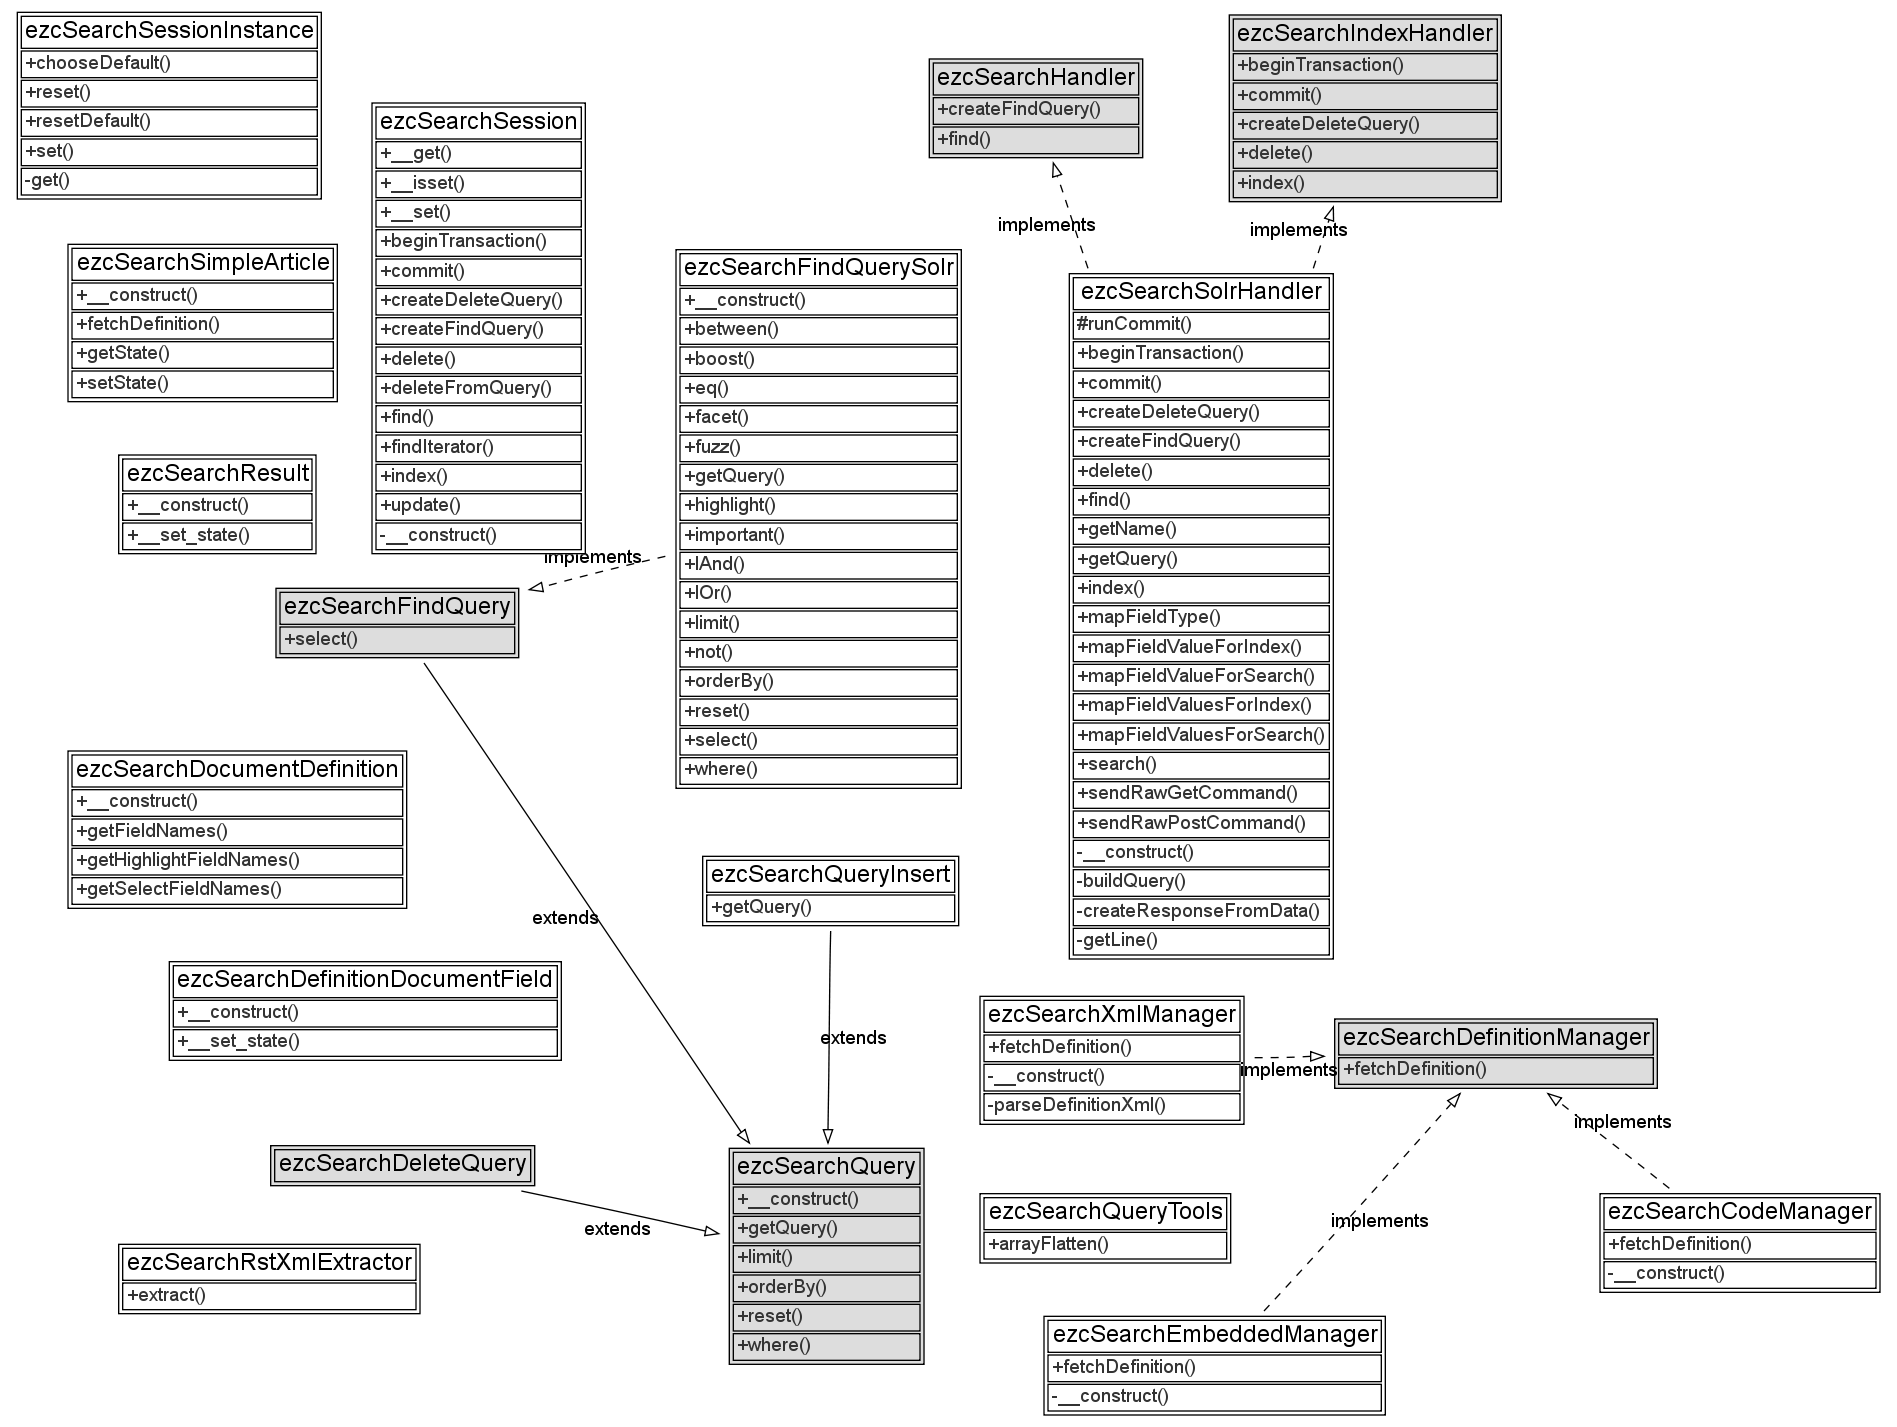
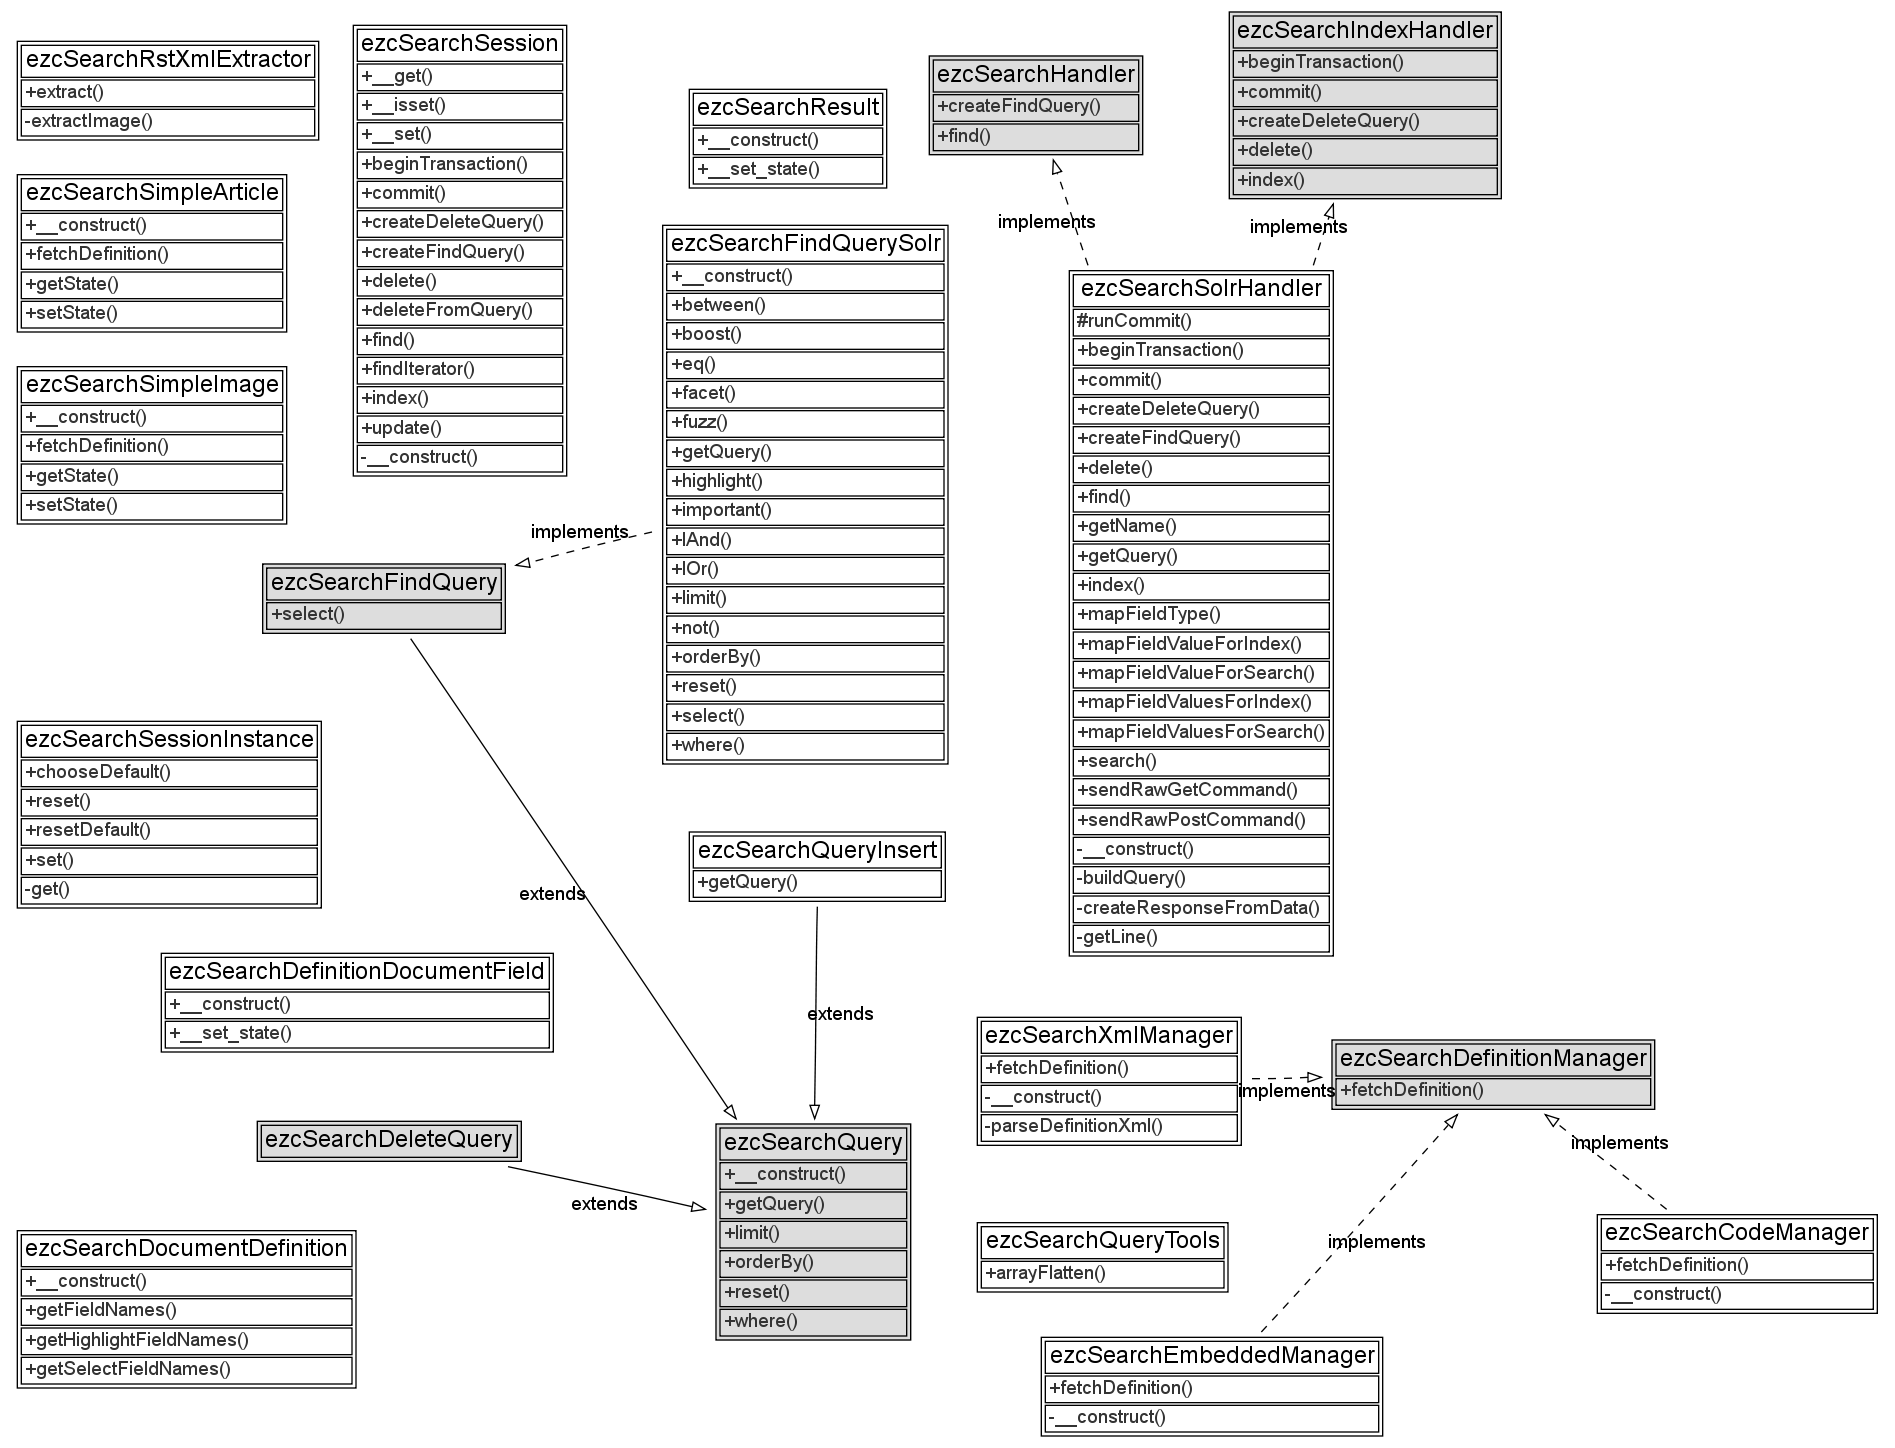
- Added support for extracing images, still very much in development.

diff --git a/src/extractors/rstxml.php b/src/extractors/rstxml.php
@@ -23,7 +23,7 @@ class ezcSearchRstXmlExtractor /* implements ezcSearchExtractor */
      * @param string $url
      * @return array(ezcSearchDocument)
      */
-    static public function extract( $fileName, $url )
+    static public function extract( $fileName, $type, $url, $imagePath = null, $imageUrlPath = null )
     {
         $published = filemtime( $fileName );
 
@@ -34,16 +34,73 @@ class ezcSearchRstXmlExtractor /* implements ezcSearchExtractor */
 
         $xpath = new DOMXPath($dom);
         $tocElem = $xpath->evaluate("//h1[@class='title']", $tbody )->item(0);
-        $title = $tocElem->nodeValue;
+        $title = $tocElem ? $tocElem->nodeValue : 'no title';
 
-        $tbody = $dom->getElementsByTagName('p');
+        $docs = array();
+        $body = $urls = array();
+        $currentUrl = $url;
+        $lastUrl = $url;
+        $currentBody = '';
+
+        // child::*[self::p or self::h1]
+        $xpath = new DOMXPath($dom);
+//        $tbody = $xpath->evaluate("descendant::*[self::p or self::h1 or self::dl or self::img or self::a]", $tbody );
+        $tbody = $xpath->evaluate("//p|//h1|//dl|//img|//a", $tbody );
+//        $tbody = $dom->getElementsByTagName('p');
         $body = '';
         foreach( $tbody as $item )
         {
-            $body .= strip_tags( $dom->saveXml( $item ) ) . "\n\n";
+            switch ( $item->tagName )
+            {
+                case 'a':
+                        $name = $item->getAttribute( 'name' );
+//                        echo "[a] ", $name, "\n";
+                        if ( strlen( $name ) )
+                        {
+                            $currentUrl = $url . '#'. $name;
+                        }
+                    break;
+                case 'img':
+                        $alt = $item->getAttribute( 'alt' );
+                        $src = $item->getAttribute( 'src' );
+                        $location = $imagePath == null ?
+                            (dirname( $fileName ). '/'. $src) : 
+                            ($imagePath. '/'. preg_replace( '@(\.\./)+@', '', $src ) );
+                        $imgurl = $src[0] == '/' ?
+                            $src :
+                            ($imageUrlPath === null ?
+                                ($url . '/' . $src) :
+                                ($imageUrlPath. '/'. preg_replace( '@(\.\./)+@', '', $src ) ) );
+                        echo "  - $src => $imgurl\n";
+                        $docs[] = self::extractImage( $alt, $location, $imgurl );
+                    break;
+                case 'p':
+                case 'h1':
+                case 'dl':
+                        if ( $lastUrl !== $currentUrl )
+                        {
+                            $docs[] = new ezcSearchSimpleArticle( null, $title, $currentBody, $published, $lastUrl, $type );
+                            $currentBody = '';
+                            $lastUrl = $currentUrl;
+                        }
+                        $currentBody .= strip_tags( $dom->saveXml( $item ) ) . "\n\n";
+                    break;
+            }
+        }
+        if ( $currentBody != '' )
+        {
+            $docs[] = new ezcSearchSimpleArticle( null, $title, $currentBody, $published, $lastUrl, $type );
         }
 
-        return array( new ezcSearchSimpleArticle( null, $title, $body, $published, $url ) );
+//        $docs[] = new ezcSearchSimpleArticle( null, $title, $body, $published, $urls, $type );
+        return $docs;
+    }
+
+    private static function extractImage( $title, $filename, $url )
+    {
+        $info = getimagesize( $filename );
+
+        return new ezcSearchSimpleImage( null, $title, $url, $info[0], $info[1], $info['mime'], $url );
     }
 }
 ?>

diff --git a/src/extractors/helpers/image.php b/src/extractors/helpers/image.php
@@ -1,0 +1,54 @@
+<?php
+class ezcSearchSimpleImage /* implements ezcSearchEmbeddedDefinition */
+{
+    public $id;
+    public $title;
+    public $url;
+    public $width;
+    public $height;
+    public $mime;
+
+    function __construct( $id = null, $title = null, $url = null, $width = null, $height = null, $mime = null )
+    {
+        $this->id = $id;
+        $this->title = $title;
+        $this->url = $url;
+        $this->width = $width;
+        $this->height = $height;
+        $this->mime = $mime;
+    }
+
+    static public function fetchDefinition()
+    {
+        $n = new ezcSearchDocumentDefinition( 'ezcSearchSimpleImage' );
+        $n->idProperty = 'id';
+        $n->fields['id']        = new ezcSearchDefinitionDocumentField( 'id', ezcSearchDocumentDefinition::TEXT );
+        $n->fields['title']     = new ezcSearchDefinitionDocumentField( 'title', ezcSearchDocumentDefinition::TEXT, 2, true, false, true );
+        $n->fields['url']       = new ezcSearchDefinitionDocumentField( 'url', ezcSearchDocumentDefinition::STRING );
+        $n->fields['width']     = new ezcSearchDefinitionDocumentField( 'width', ezcSearchDocumentDefinition::INT );
+        $n->fields['height']    = new ezcSearchDefinitionDocumentField( 'height', ezcSearchDocumentDefinition::INT );
+        $n->fields['mime']      = new ezcSearchDefinitionDocumentField( 'mime', ezcSearchDocumentDefinition::STRING );
+
+        return $n;
+    }
+
+    function getState()
+    {
+        return array(
+            'id' => $this->id,
+            'title' => $this->title,
+            'url' => $this->url,
+            'width' => $this->width,
+            'height' => $this->height,
+            'mime' => $this->mime,
+        );
+    }
+
+    function setState( $state )
+    {
+        foreach ( $state as $key => $value )
+        {
+            $this->$key = $value;
+        }
+    }
+}

diff --git a/src/search_autoload.php b/src/search_autoload.php
@@ -34,6 +34,7 @@ return array(
     'ezcSearchSession'                              => 'Search/search_session.php',
     'ezcSearchSessionInstance'                      => 'Search/search_session_instance.php',
     'ezcSearchSimpleArticle'                        => 'Search/extractors/helpers/simple.php',
+    'ezcSearchSimpleImage'                          => 'Search/extractors/helpers/image.php',
     'ezcSearchSolrHandler'                          => 'Search/handlers/solr.php',
     'ezcSearchXmlManager'                           => 'Search/managers/xml_manager.php',
 );
